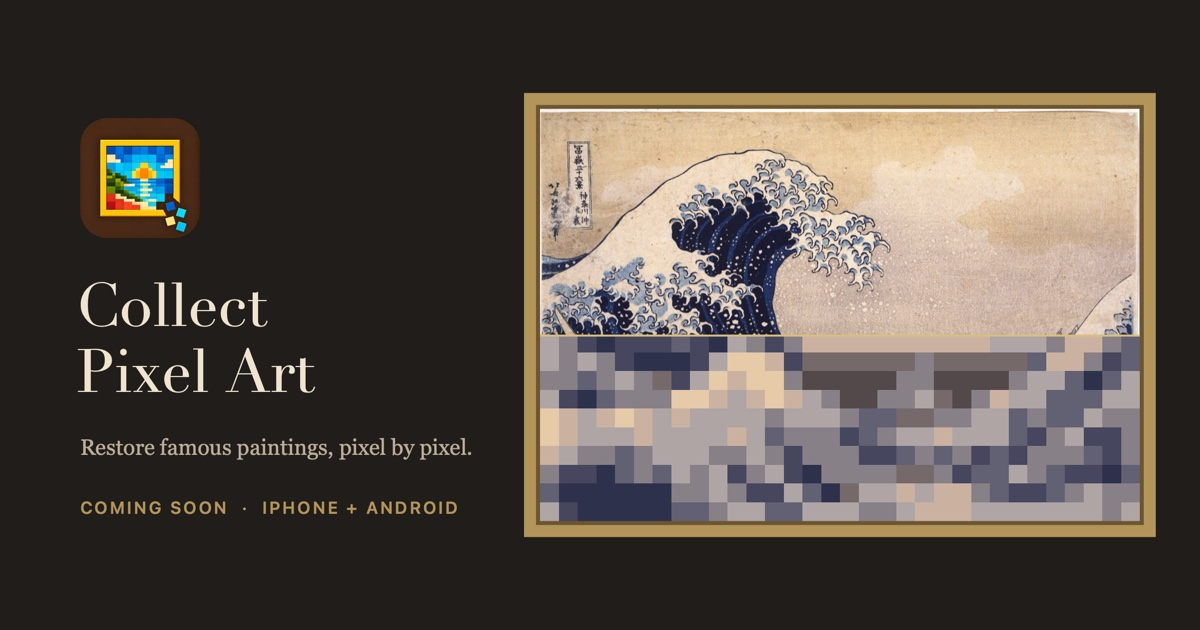
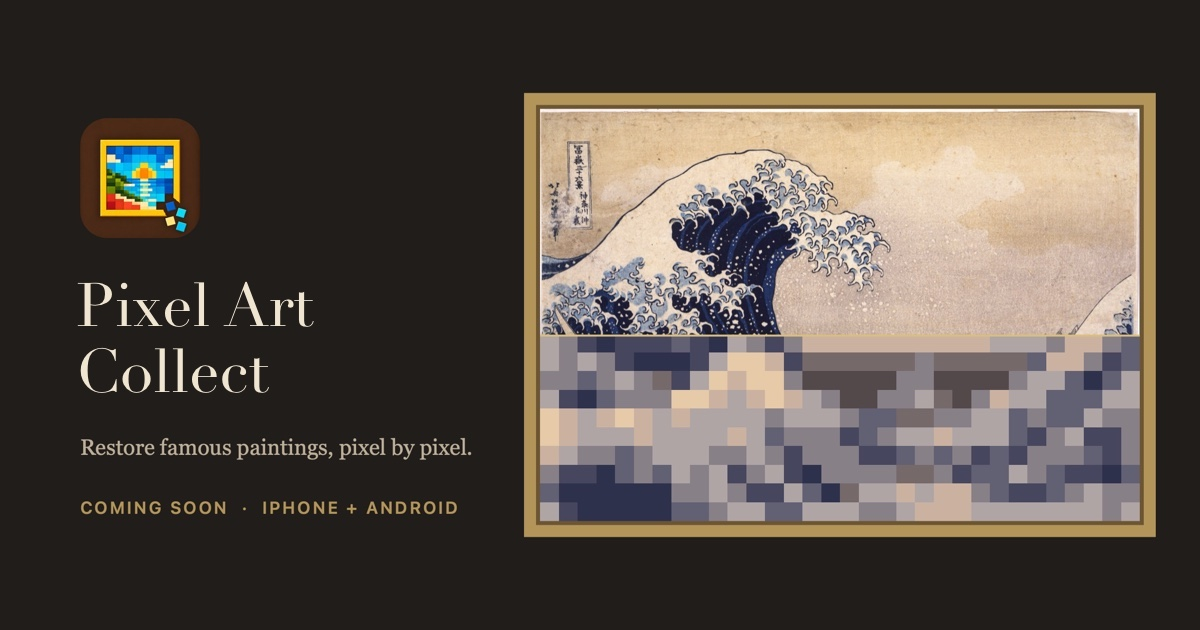
Rename the game to Pixel Art Collect across the site
Page titles, nav and footer labels, JSON-LD, alt text, the notify-me mail
subject and the social share image now use the store name. URLs stay at
/collect-pixel-art because the privacy address is baked into the game.

Changed region(s): [[0.0617, 0.4222, 0.2775, 0.6333]]

diff --git a/app/collect-pixel-art/page.tsx b/app/collect-pixel-art/page.tsx
@@ -13,26 +13,26 @@ const SITE = "https://simpleideas.net";
 const PAGE_URL = `${SITE}/collect-pixel-art`;
 const OG_IMAGE = `${SITE}/cpa/og.jpg`;
 const PRIVACY_PATH = "/collect-pixel-art/privacy";
-const NOTIFY = `mailto:${CONTACT_EMAIL}?subject=Collect%20Pixel%20Art%20%E2%80%94%20notify%20me`;
+const NOTIFY = `mailto:${CONTACT_EMAIL}?subject=Pixel%20Art%20Collect%20%E2%80%94%20notify%20me`;
 
 const DESCRIPTION =
   "Restore the world's great paintings, pixel by pixel. Tap a colour, collect what matches and watch the original return from the top down. Coming soon to iPhone and Android from Simple Ideas.";
 
 export const metadata: Metadata = {
-  title: "Collect Pixel Art — coming soon from Simple Ideas",
+  title: "Pixel Art Collect — coming soon from Simple Ideas",
   description: DESCRIPTION,
   alternates: { canonical: PAGE_URL },
   openGraph: {
     type: "website",
     url: PAGE_URL,
     siteName: "Simple Ideas",
-    title: "Collect Pixel Art",
+    title: "Pixel Art Collect",
     description: DESCRIPTION,
-    images: [{ url: OG_IMAGE, width: 1200, height: 630, alt: "Collect Pixel Art — coming soon to iPhone and Android" }],
+    images: [{ url: OG_IMAGE, width: 1200, height: 630, alt: "Pixel Art Collect — coming soon to iPhone and Android" }],
   },
   twitter: {
     card: "summary_large_image",
-    title: "Collect Pixel Art",
+    title: "Pixel Art Collect",
     description: DESCRIPTION,
     images: [OG_IMAGE],
   },
@@ -45,7 +45,7 @@ export const viewport: Viewport = {
 const jsonLd = {
   "@context": "https://schema.org",
   "@type": "VideoGame",
-  name: "Collect Pixel Art",
+  name: "Pixel Art Collect",
   url: PAGE_URL,
   image: OG_IMAGE,
   description: DESCRIPTION,
@@ -150,7 +150,7 @@ export default function CollectPixelArtPage() {
               <Image
                 className={styles.appIcon}
                 src="/cpa/icon.png"
-                alt="Collect Pixel Art app icon"
+                alt="Pixel Art Collect app icon"
                 width={512}
                 height={512}
                 sizes="96px"
@@ -158,7 +158,7 @@ export default function CollectPixelArtPage() {
               />
               <p className={styles.eyebrow}>A new game from Simple Ideas</p>
               <h1 id="cpa-title" className={styles.h1}>
-                Collect Pixel Art
+                Pixel Art Collect
               </h1>
               <p className={styles.lede}>Restore the world&apos;s great paintings, pixel by pixel.</p>
               <p className={styles.body}>

diff --git a/app/page.tsx b/app/page.tsx
@@ -318,12 +318,12 @@ export default function Home() {
               <Image
                 className={styles.teaserIcon}
                 src="/cpa/icon.png"
-                alt="Collect Pixel Art app icon"
+                alt="Pixel Art Collect app icon"
                 width={512}
                 height={512}
                 sizes="72px"
               />
-              <h3 className={styles.teaserTitle}>Collect Pixel Art</h3>
+              <h3 className={styles.teaserTitle}>Pixel Art Collect</h3>
               <p className={styles.teaserLede}>Restore famous paintings, pixel by pixel.</p>
               <span className={styles.chip}>Coming soon · iPhone + Android</span>
               <div>
@@ -374,7 +374,7 @@ export default function Home() {
             </p>
             <p data-reveal>
               Almost in Orbit is the studio&apos;s first title: designed, coded, balanced and launched by the same pair
-              of hands. Collect Pixel Art is next.
+              of hands. Pixel Art Collect is next.
             </p>
             <a className={styles.mail} href={`mailto:${CONTACT_EMAIL}`}>
               {CONTACT_EMAIL}

diff --git a/components/SiteFooter.tsx b/components/SiteFooter.tsx
@@ -5,7 +5,7 @@ import styles from "./SiteFooter.module.css";
 
 const LINKS = [
   { href: "/", label: "Almost in Orbit" },
-  { href: "/collect-pixel-art", label: "Collect Pixel Art" },
+  { href: "/collect-pixel-art", label: "Pixel Art Collect" },
   { href: "/press", label: "Press kit" },
   { href: "/privacy", label: "Privacy" },
   { href: "/support", label: "Support" },

diff --git a/components/StudioNav.tsx b/components/StudioNav.tsx
@@ -3,7 +3,7 @@ import styles from "./StudioNav.module.css";
 
 const LINKS = [
   { href: "/", label: "Almost in Orbit" },
-  { href: "/collect-pixel-art", label: "Collect Pixel Art", chip: "Soon" },
+  { href: "/collect-pixel-art", label: "Pixel Art Collect", chip: "Soon" },
   { href: "/press", label: "Press kit" },
   { href: "/support", label: "Support" },
 ] as const;

diff --git a/lib/fonts-museum.ts b/lib/fonts-museum.ts
@@ -1,7 +1,7 @@
 import { Marcellus, Source_Sans_3, Source_Serif_4 } from "next/font/google";
 
 /*
- * Collect Pixel Art "classic museum" fonts. Import this module only from routes that
+ * Pixel Art Collect "classic museum" fonts. Import this module only from routes that
  * render museum UI; apply `museumFontVars` on the wrapper that needs them.
  */
 

diff --git a/app/globals.css b/app/globals.css
@@ -13,7 +13,7 @@
   --gold: #fcd34d;
   --boss: #d62525;
 
-  /* ── Collect Pixel Art · classic museum (dark walls) ──── */
+  /* ── Pixel Art Collect · classic museum (dark walls) ──── */
   --m-bg: #201d1a;
   --m-card: #2c2722;
   --m-foot: #1a1714;
